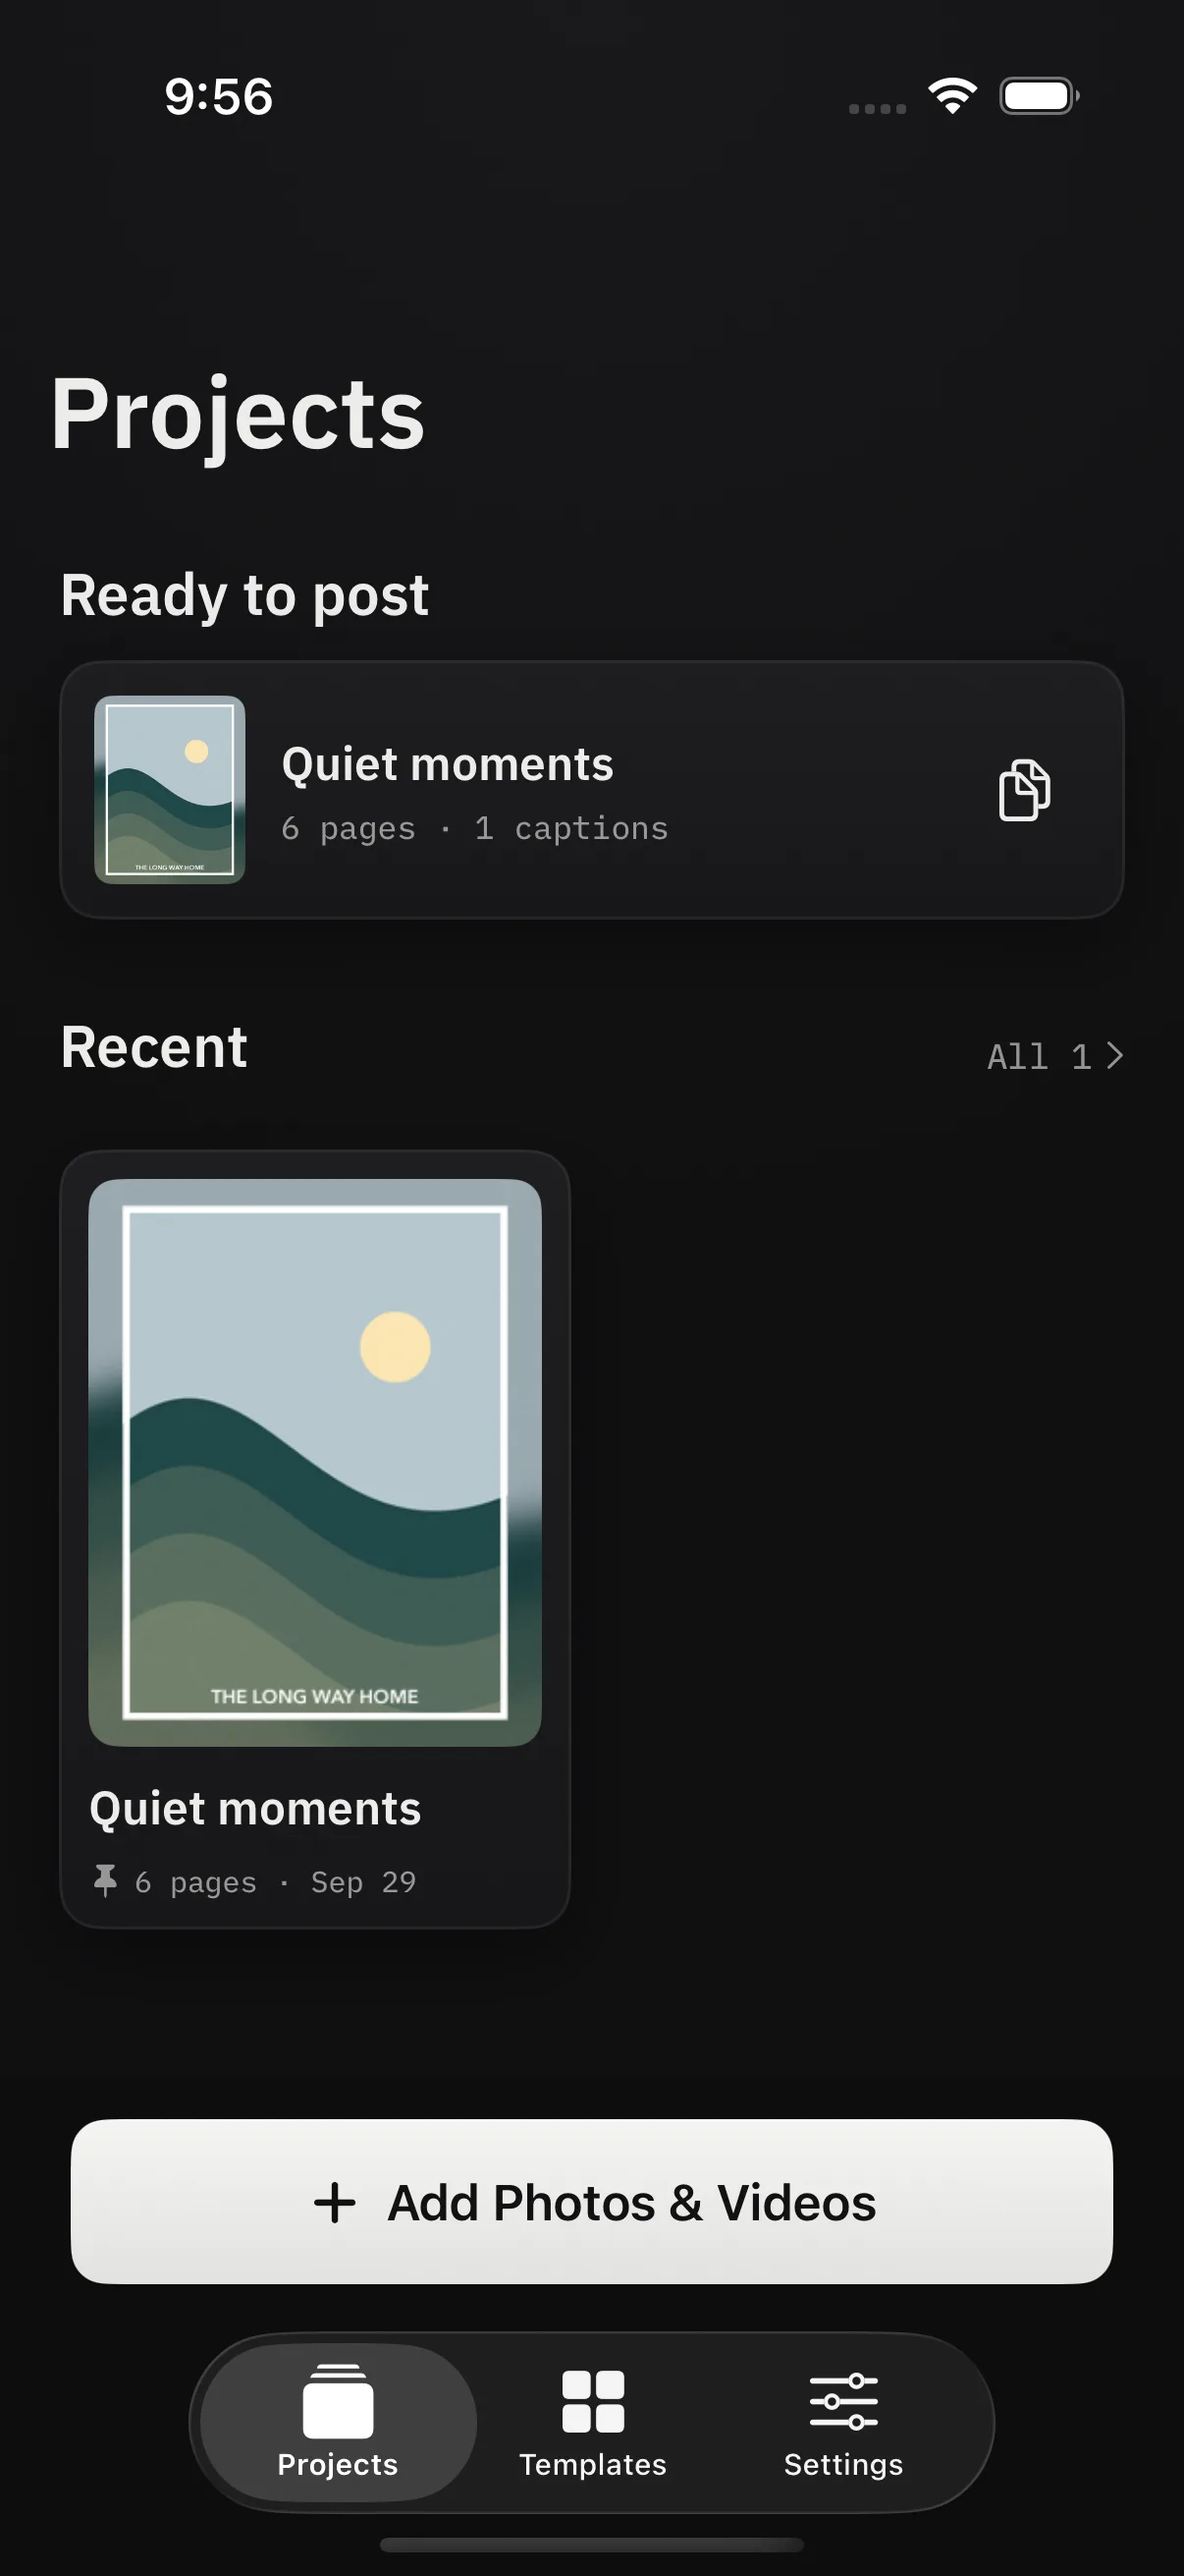
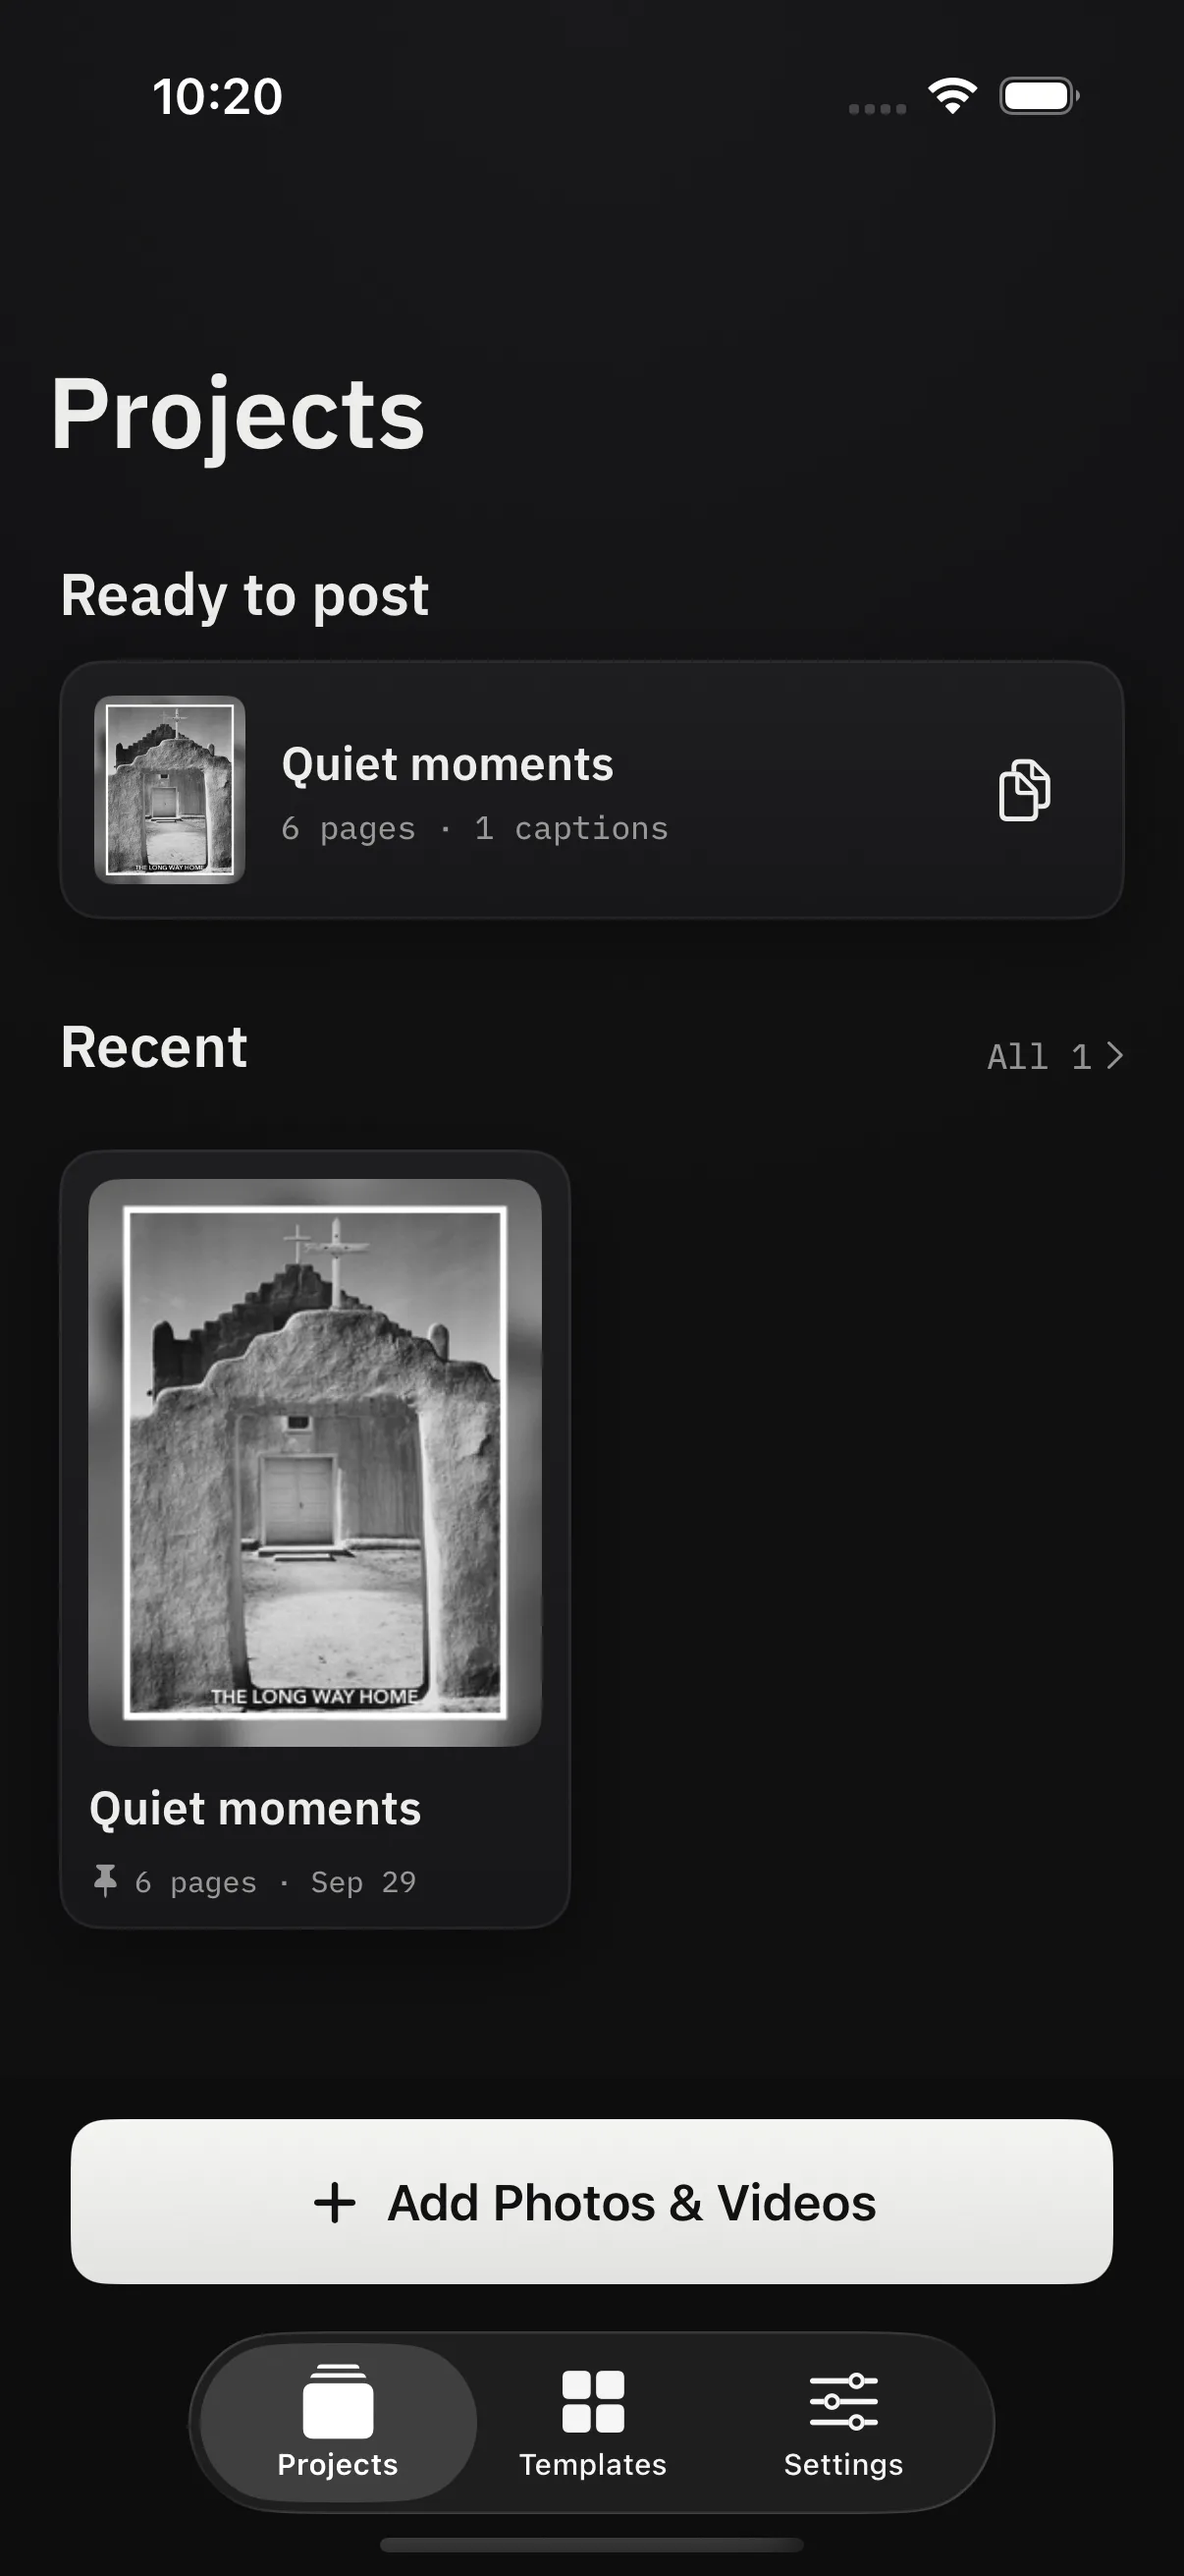
Decks: new headline, Ansel Adams example photographs, drop TH+ and Fujifilm
Headline is "A modern frames app, by a photographer, for photographers."
and the earlier draft line is retired everywhere. Screenshots recaptured
with Ansel Adams' National Park Service photographs (National Archives,
public domain) seeded through the app's new debug --social-demo-dir
argument, with a credit line and captions. TH+ is Series' label and the
Fujifilm simulation feature is not working, so neither is on the page.

Changed region(s): [[0.0614, 0.4325, 0.4602, 0.6796], [0.0614, 0.2471, 0.2148, 0.3707], [0.1227, 0.0309, 0.2454, 0.0618]]

diff --git a/site/decks/index.html b/site/decks/index.html
@@ -36,7 +36,7 @@
 </div>
 <figure class="hero-screen">
 <img src="assets/editor.webp" width="1206" height="2622" alt="The Decks editor on an iPhone, showing a framed photo on a dark canvas with the Layout, Frame, Photo, Text, Camera, and Caption tools along the bottom">
-<figcaption>The editor, shown with the app’s built-in example photos.</figcaption>
+<figcaption>The editor. Example photographs by Ansel Adams, 1941 to 1942, National Archives.</figcaption>
 </figure>
 </section>
 
@@ -51,7 +51,6 @@
 <li><span class="r34"></span>3:4</li>
 <li><span class="r23"></span>2:3</li>
 <li><span class="r916"></span>9:16</li>
-<li><span class="rth"></span>TH+</li>
 </ul>
 </article>
 <article class="feature">
@@ -67,7 +66,7 @@
 <article class="feature">
 <span class="eyebrow">04 / Camera details</span>
 <h2>Say what you shot it with.</h2>
-<p>Camera, lens, focal length, aperture, shutter, ISO, and date come from the photo’s own metadata. Fujifilm JPEGs add the film simulation and recipe. Put the details on the page as a card, drop them into the caption, or both.</p>
+<p>Camera, lens, focal length, aperture, shutter, ISO, and date come from the photo’s own metadata. Put the details on the page as a card, drop them into the caption, or both.</p>
 </article>
 <article class="feature">
 <span class="eyebrow">05 / Text and logos</span>
@@ -88,12 +87,12 @@
 <p>The Caption Sheet is one screen per page. Write the caption, then insert the camera details from a chip bar above the keyboard, without leaving the field. Type a semicolon to search every detail the photo carries.</p>
 <p>When the batch is done, Decks keeps the captions in order. Copy the first, paste it in Instagram, come back for the second. Finished projects wait on the home screen under Ready to post with a Copy captions action beside them.</p>
 <ul class="chips" aria-label="Details you can insert">
-<li>camera</li><li>lens</li><li>focal length</li><li>aperture</li><li>shutter</li><li>ISO</li><li>date</li><li>film simulation</li><li>recipe</li><li>page 2 of 5</li>
+<li>camera</li><li>lens</li><li>focal length</li><li>aperture</li><li>shutter</li><li>ISO</li><li>date</li><li>page 2 of 5</li>
 </ul>
 </div>
 <figure>
 <img src="assets/caption-sheet.webp" width="1206" height="2622" loading="lazy" alt="The Caption Sheet in Decks, listing the pages of a project with a caption field for each">
-<figcaption>The Caption Sheet, shown with example photos.</figcaption>
+<figcaption>The Caption Sheet. Photographs by Ansel Adams, National Archives.</figcaption>
 </figure>
 </section>
 
@@ -101,11 +100,11 @@
 <div>
 <p class="eyebrow">Instagram and Threads</p>
 <h2 id="threads-heading">Panoramas that survive the crop.</h2>
-<p>Split one photo across linked pages and the pieces line up as a carousel. For Threads, the TH+ shape matches how the app shows a full-screen image, and a feed preview in Export shows the 3:4 crop Threads applies in the timeline, so nothing important sits on a seam.</p>
+<p>Split one photo across linked pages and the pieces line up as a carousel. For Threads, a taller page shape matches how the app shows a full-screen image, and a feed preview in Export shows the 3:4 crop Threads applies in the timeline, so nothing important sits on a seam.</p>
 <p>A Size Guide lists the pixel sizes each destination wants. Export defaults to 1440 pixels wide and saves straight to Photos, or hands the pages to the share sheet.</p>
 </div>
 <figure>
-<img src="assets/threads-export.webp" width="1206" height="2622" loading="lazy" alt="The Export screen in Decks, showing three panorama pages as they will appear cropped to 3:4 in the Threads feed, with Share and Save to Photos buttons"><figcaption>Export, with the Threads feed preview. Example photos.</figcaption>
+<img src="assets/threads-export.webp" width="1206" height="2622" loading="lazy" alt="The Export screen in Decks, showing three panorama pages as they will appear cropped to 3:4 in the Threads feed, with Share and Save to Photos buttons"><figcaption>Export, with the Threads feed preview. Photographs by Ansel Adams, National Archives.</figcaption>
 </figure>
 </section>
 
@@ -124,11 +123,12 @@
 <figure><img src="assets/compose.webp" width="1206" height="2622" loading="lazy" alt="Writing text over a photo in Decks, with the field above the keyboard, a format bar, and a size slider on the left edge"><figcaption>Writing on a page. Tap the text again to edit, hold to move, twist to rotate.</figcaption></figure>
 <figure><img src="assets/shortcut.webp" width="1206" height="2622" loading="lazy" alt="The Photos Shortcut sheet for a template in Decks, listing the Siri and Shortcuts phrase and the three steps to add it to the Photos share sheet"><figcaption>Every template has a Photos Shortcut sheet with the steps for the share sheet.</figcaption></figure>
 </section>
+<p class="photo-credit">Example photographs by Ansel Adams from <a href="https://www.archives.gov/research/ansel-adams">Ansel Adams Photographs of National Parks and Monuments</a>, 1941 to 1942, National Archives and Records Administration. Public domain as work of the United States government. Text on the pages is placeholder wording, not Adams’ titles.</p>
 
 <section class="closing">
 <p class="eyebrow">Still being built</p>
-<h2>Frame the photo. Credit the camera. Post.</h2>
-<p>Decks is a personal project, in development for iPhone and iPad. It is not on TestFlight and there is no date to promise. It comes from the same workshop as <a href="/ingest/">Ingest</a>, the Mac app for importing and culling.</p>
+<h2>Not finished yet.</h2>
+<p>Decks is a personal project for iPhone and iPad. It is not on TestFlight and there is no date to promise. It comes from the same workshop as <a href="/ingest/">Ingest</a>, the Mac app for importing and culling.</p>
 </section>
 </main>
 <footer class="family-footer">

diff --git a/site/decks/assets/site.css b/site/decks/assets/site.css
@@ -47,6 +47,7 @@ body.app-decks{background:radial-gradient(ellipse 80% 40% at 50% -5%,#19191b 0%,
 
 .app-decks .screens img{box-shadow:0 8px 24px #0006}
 .app-decks .screens figcaption{color:var(--readout)}
+.photo-credit{font-size:12px;color:var(--readout);max-width:70ch;margin:0 0 40px}
 .app-decks .closing{border-top:1px solid var(--line);padding-top:44px}
 
 @media(max-width:900px){.app-decks .features,.no-ceiling ul{grid-template-columns:1fr 1fr}}

diff --git a/MESSAGING.md b/MESSAGING.md
@@ -295,7 +295,7 @@ Added at Brian's request as the sixth project and the last of the iOS apps, beca
 
 **Primary promise:** Frames, camera details, text, and captions in one place, saved as a template so the next post is a few taps or a Shortcut.
 
-**Headline:** A modern frames app, by a photographer, for photographers. (Brian’s line, September 29, 2026. "Frame the photo. Credit the camera. Post." moved to the closing.)
+**Headline:** A modern frames app, by a photographer, for photographers. (Brian’s line, September 29, 2026. The earlier draft line "Frame the photo. Credit the camera. Post." is retired; Brian called it a slogan and it must not come back anywhere.)
 
 **Supporting copy:** Frames sized for Instagram and Threads, with camera details, text, and captions beside the photo. Save the look as a template and post from a Shortcut.
 
@@ -311,14 +311,14 @@ Added at Brian's request as the sixth project and the last of the iOS apps, beca
 
 - In development. Not on TestFlight, so there is no download, beta link, or call to action. The page states status and stops.
 - iOS and iPadOS 18 or later. Do not name a release date.
-- Shapes offered in the app: 4:5, 1:1, 9:16, 3:4, 16:9, and TH+ (9:19.5, for Threads full-screen). Do not present these as official platform requirements; the Size Guide in the app lists pixel sizes.
+- Shapes shown on the page: 1:1, 4:5, 3:4, 2:3, 9:16. The 9:19.5 Threads full-screen shape is described as "a taller page shape" and never as "TH+": that label is Series' term and Brian is removing it from the app (September 29, 2026). Do not present shapes as official platform requirements; the Size Guide in the app lists pixel sizes.
 - Each saved template appears in Shortcuts as "Save photos with <template>". The Photos share-sheet path needs the user to install the Decks Templates shortcut and duplicate it per template; iOS cannot create Shortcuts on the user's behalf, so the page says "add the Decks Templates shortcut to the Photos share sheet" and nothing stronger.
-- Camera details come from EXIF via ImageIO. Fujifilm film simulation and recipe are read from camera JPEGs only; RAF, HEIC, and PNG do not supply them. Scans and clips carry no metadata, so those details come from the saved gear list (My Gear).
+- Camera details come from EXIF via ImageIO. Do not mention Fujifilm film simulations or recipes: Brian said on September 29, 2026 that the feature is not working and it stays off the page until it does. Scans and clips carry no metadata, so those details come from the saved gear list (My Gear).
 - Video: one clip per page, trimmed in place, 1 second minimum, H.264 by default with HEVC optional, exported as MP4 and saved to Photos. The blurred background can be a still or move with the clip.
 - Export defaults to 1440 pixels wide, JPEG, saved to Photos or handed to the share sheet. Do not describe posting to Instagram or Threads as automatic; the app saves or shares, and the user posts.
 - Mac synchronization with Ingest is deferred. The closing says Decks comes from the same workshop as Ingest and nothing about sync.
 - The name Acros for the default appearance is used inside the app's Settings and is not on the page.
-- Screenshots come from the app's demo fixture (synthetic hill illustrations). Always caption them as example photos. Recapture with the screenshot walk in `Social/Tests/IngestSocialShots.swift`.
+- Screenshots come from the app's demo fixture seeded with Ansel Adams' National Park Service photographs (1941 to 1942, National Archives, public domain as US government work) via the debug `--social-demo-dir` argument. Credit Adams and the National Archives on the page wherever they appear. Recapture with the screenshot walk in `Social/Tests/IngestSocialShots.swift`.
 
 **Visual direction:** The app's own Acros appearance, dark in both color schemes: ground `#101011` with a faint radial light at the top, cards as a `#1e1e20` to `#171719` gradient with no borders, ink `#ececea` as both text and accent, muted `#a3a3a1`, mono readouts for eyebrows and shape labels. No color accent anywhere on the page. This is the second homepage card that is dark in light mode, for the same reason as Canceled: the dark ground is the app's identity.
 
